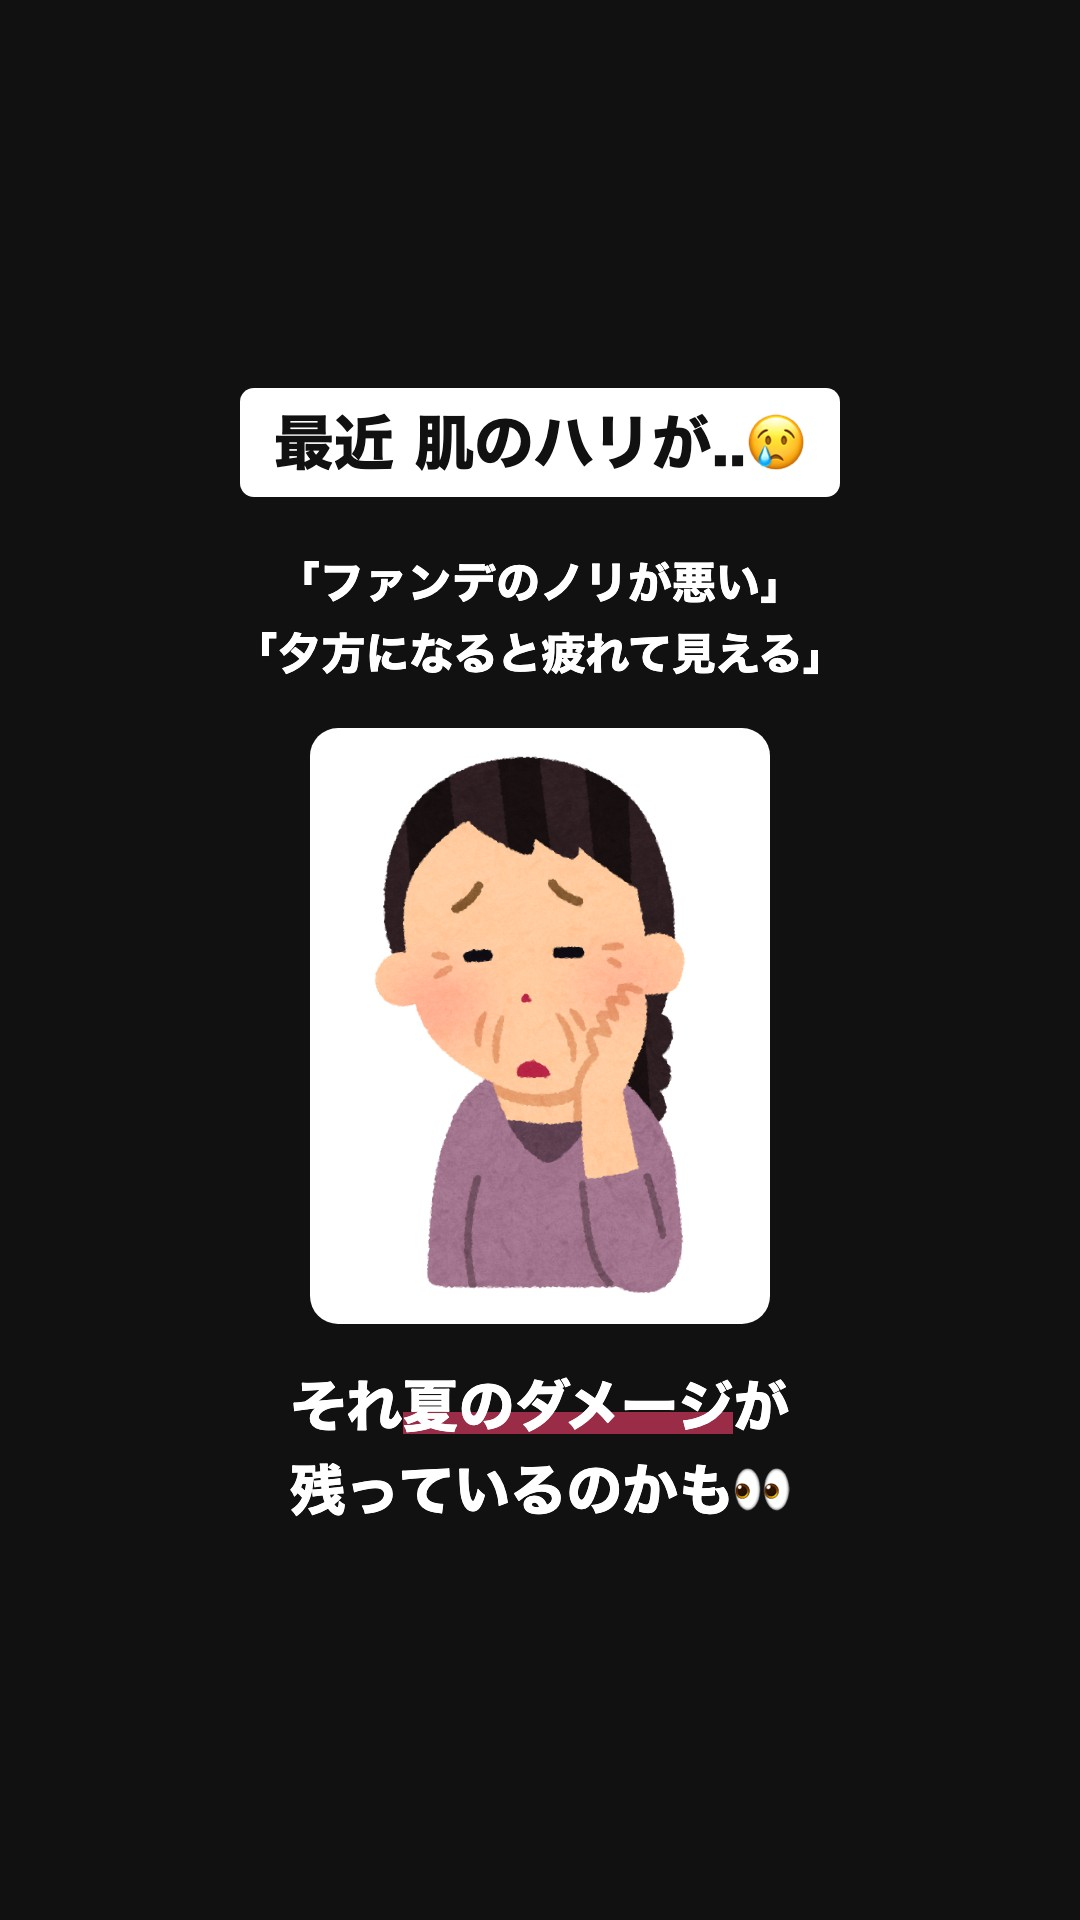
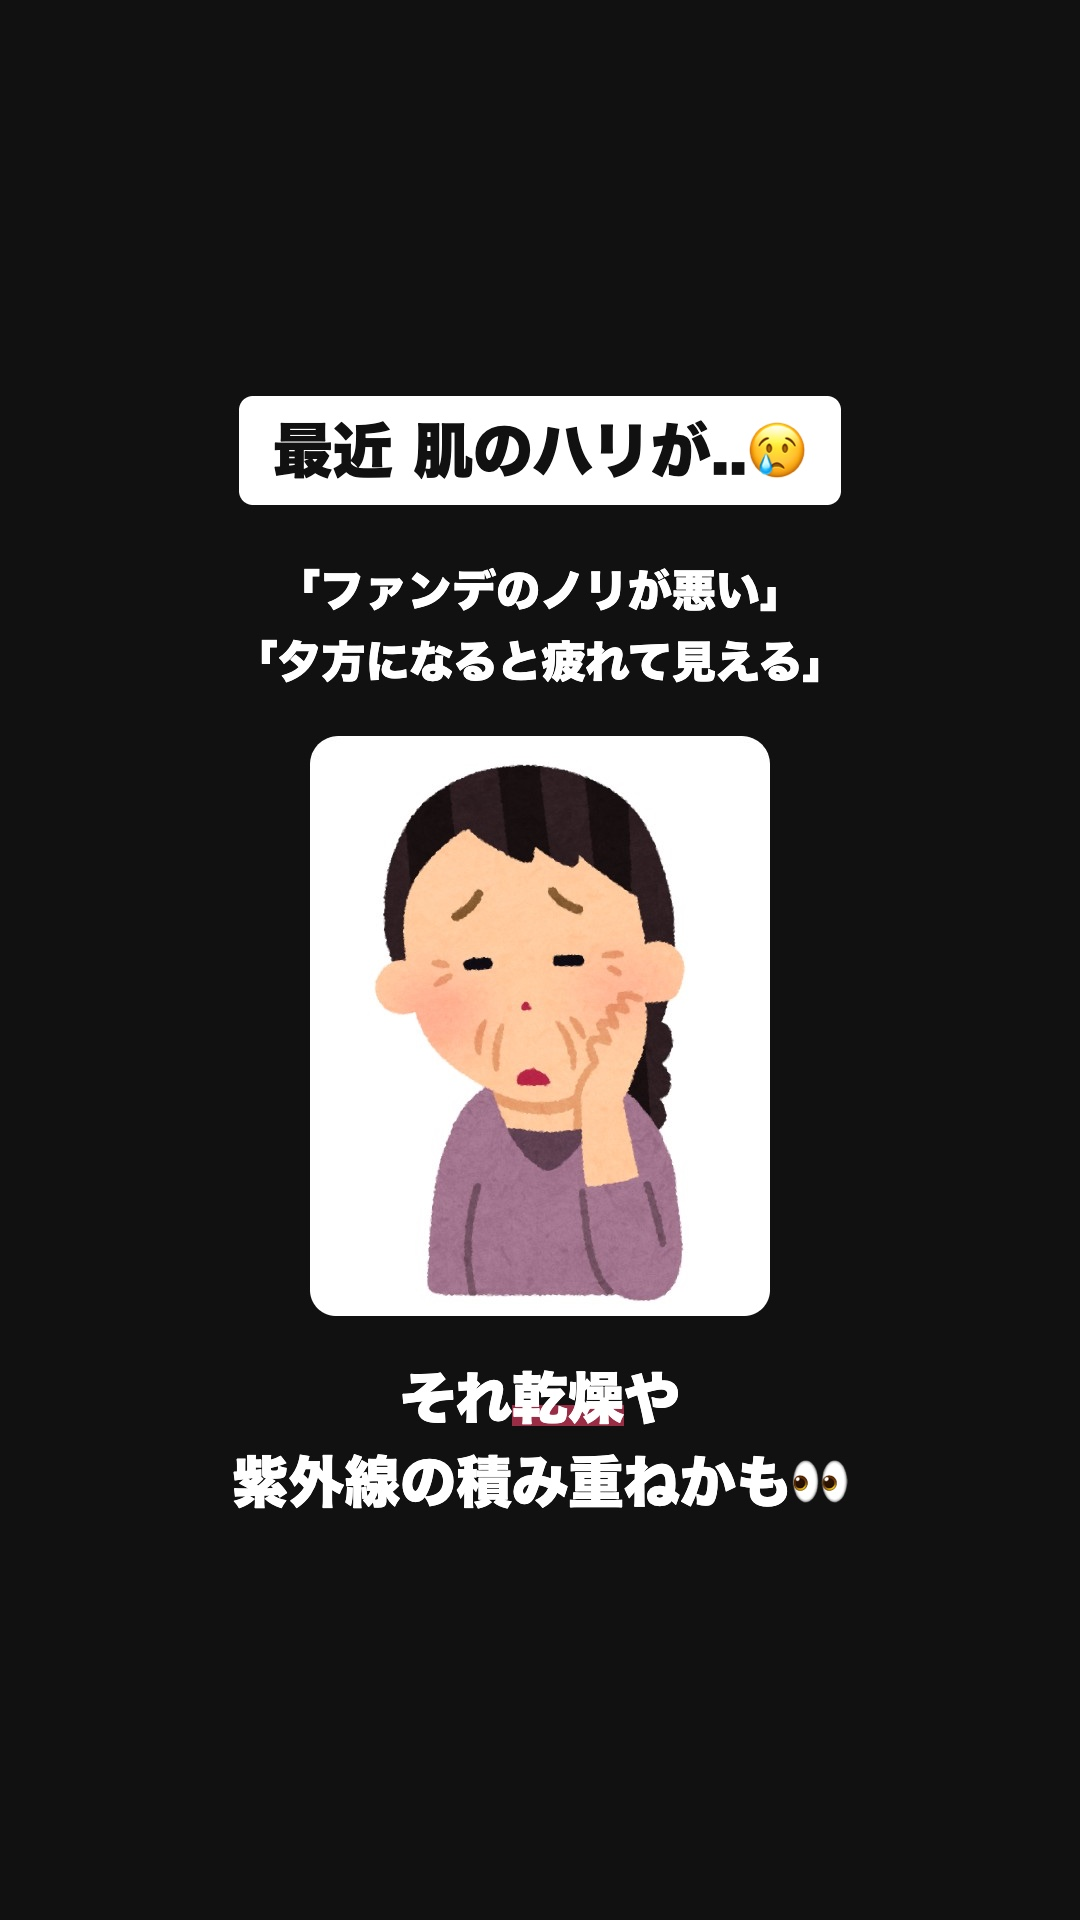
ストーリーを11月向けに更新：季節ネタを秋→冬に（D/H/J/K/U/M）・うるツヤ交代をやめキャンペーンのみうるツヤ（X）に

Changed region(s): [[0.2139, 0.1875, 0.7639, 0.625], [0.2139, 0.6562, 0.7944, 0.8125]]

diff --git a/post_story.py b/post_story.py
@@ -7,7 +7,6 @@
 - 直近6投稿日に出したセットは選ばない（同じものが続かないように）
 - expires を過ぎたセット（10月キャンペーンなど）は選ばない
 - "campaign": true のセットは3投稿日に1回、優先して出す（11月キャンペーン〜）
-- "style": "uru"（うるツヤ）と白黒（style なし）を1日交代で出す（2026-11-02 本人指示）
 - 1日1回だけ出す。投稿済みかどうかは history.json で判定する
 - 途中で失敗した日は、次の起動（予備の起動）で残りの枚数だけ続きから出す
 
@@ -129,28 +128,16 @@ def check_expiry(token: str, force_notify: bool = False) -> int | None:
     return left
 
 
-def style_of(sets: dict, key: str) -> str:
-    return sets.get(key, {}).get("style", "bw")
-
-
 def pick(sets: dict, history: list, today: dt.date) -> list[str]:
     recent = {k for h in history[-AVOID_DAYS:] for k in h["sets"]}
     alive = [k for k, v in sets.items()
              if not v.get("expires") or today <= dt.date.fromisoformat(v["expires"])]
-    # 白黒（bw）とうるツヤ（uru）を1日交代で出す。前回が uru なら今日は bw、それ以外は uru
-    last = history[-1]["sets"][0] if history and history[-1].get("sets") else None
-    want = "bw" if last and style_of(sets, last) == "uru" else "uru"
-    # キャンペーンは、直近CAMPAIGN_EVERY投稿日にキャンペーンを出していなければ優先して出す
-    camp_recent = any(sets.get(k, {}).get("campaign") for h in history[-(CAMPAIGN_EVERY - 1):] for k in h["sets"])
-    if not camp_recent:
-        camp = [k for k in alive if sets[k].get("campaign")]
-        camp = [k for k in camp if style_of(sets, k) == want] or camp
-        if camp:
-            return random.sample(camp, min(SETS_PER_DAY, len(camp)))
-    # その日のテイストで未使用のものがなければ、テイスト問わず選ぶ
-    pool = [k for k in alive if k not in recent and style_of(sets, k) == want]
-    if len(pool) < SETS_PER_DAY:
-        pool = [k for k in alive if k not in recent]
+    # キャンペーン中のセットは、直近CAMPAIGN_EVERY投稿日に出ていなければ優先して出す
+    camp_recent = {k for h in history[-(CAMPAIGN_EVERY - 1):] for k in h["sets"]}
+    camp = [k for k in alive if sets[k].get("campaign") and k not in camp_recent]
+    if camp:
+        return random.sample(camp, min(SETS_PER_DAY, len(camp)))
+    pool = [k for k in alive if k not in recent]
     if len(pool) < SETS_PER_DAY:
         pool = alive
     return random.sample(pool, SETS_PER_DAY)
